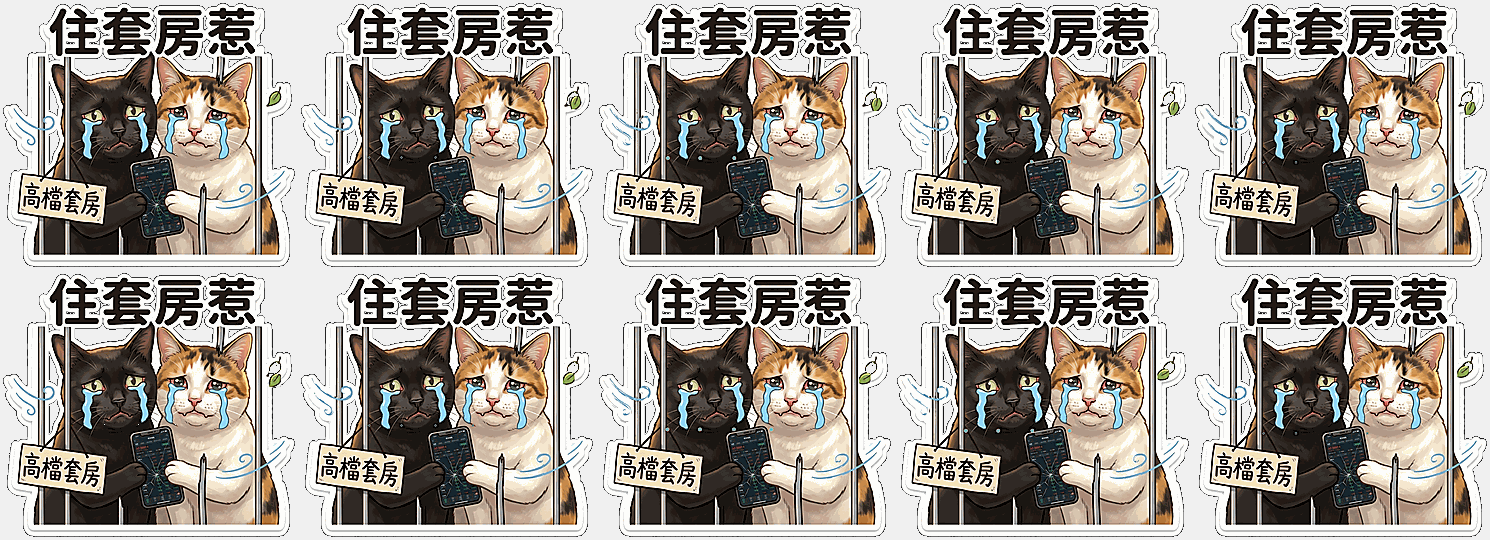
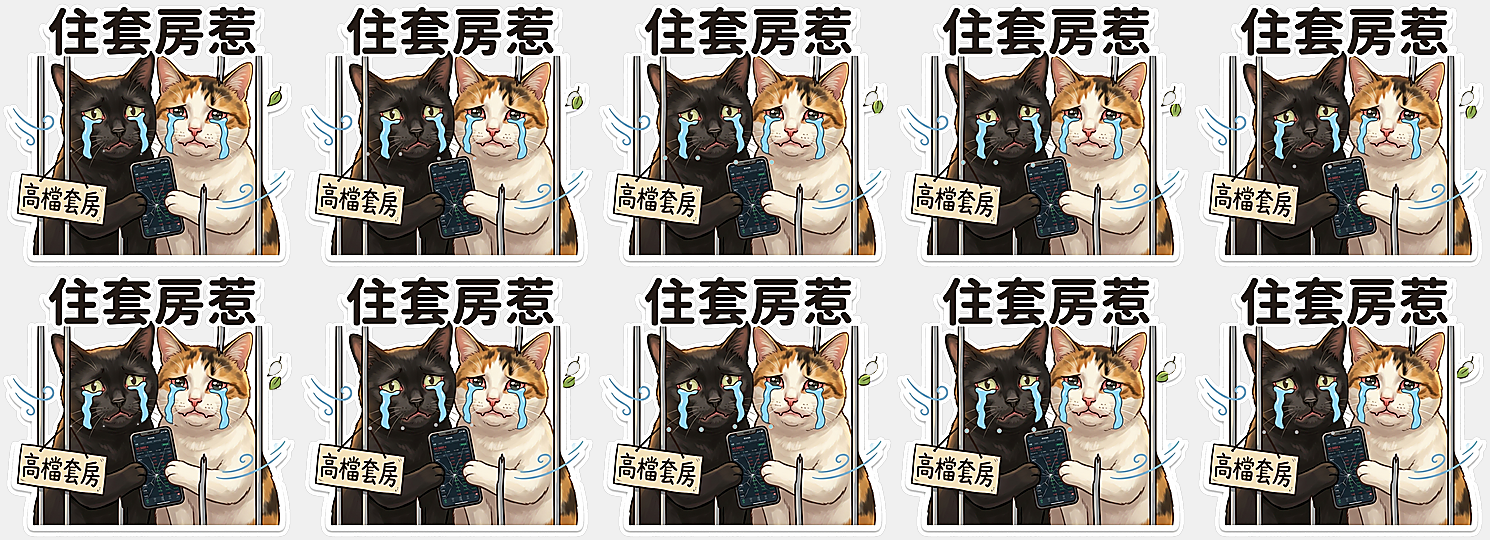
Upgrade scene_15 character animation (V2): independent cat head sways, sobbing nods, eye squinting, paw/phone terror tremble

Changed region(s): [[0.0, 0.0, 1.0, 1.0]]

diff --git a/tools/animate_scene_15_v2.py b/tools/animate_scene_15_v2.py
@@ -1,0 +1,324 @@
+"""
+animate_scene_15_v2.py - 升級版：雙貓大幅度連貫肢體與表情動作動畫
+
+動作編排 (Character Animation Choreography)：
+1. 雙貓頭部獨立傾斜與點頭哀嚎 (Independent Head Sways & Nods)：
+   - 黑貓向左垂頭懊悔 ➔ 抬頭抽泣哀嚎
+   - 花貓向右側偏頭 ➔ 癟嘴委屈點頭
+   - 雙貓動作帶有自然相位差 (Phase Shift)，呈現生動的生命感
+2. 貓耳朵飛機耳下垂與抽動 (Airplane Ears Droop & Twitch)：
+   - 抽泣時耳朵向兩側下垂壓低，隨後彈回
+3. 擠眼崩潰痛哭與睜眼水汪汪 (Eye Squeeze & Tear Bursting)：
+   - 哭到深處雙眼緊閉擠出眼淚 ➔ 睜開無辜水汪汪大眼
+4. 爪子緊抓破裂手機發抖 (Paws & Phone Terror Tremble)：
+   - 雙貓抱著綠色暴跌的手機劇烈上下顫抖
+5. 淚水瀑布噴湧與落葉冷風
+6. 12格 1.2秒流暢循環 (或 10格 1.0秒)，100% 符合 LINE APNG 規範
+"""
+
+import os
+import math
+import cv2
+import numpy as np
+from PIL import Image, ImageFilter, ImageEnhance
+from apng import APNG
+
+def create_character_action_frames():
+    raw_path = "packs/pack_02_no_work/raw/scene_15.png"
+    out_dir = "packs/pack_02_no_work/animated_demo"
+    os.makedirs(out_dir, exist_ok=True)
+
+    img = cv2.imread(raw_path, cv2.IMREAD_UNCHANGED)
+    if img is None:
+        print(f"Error loading {raw_path}")
+        return
+
+    h, w = img.shape[:2]
+    b, g, r, a = cv2.split(img)
+
+    # 1. 建立各部位的柔性權重遮罩 (Soft Region Masks for Mesh Deformation)
+    # A. 黑貓頭部 (Black Cat Head: Center around x=400, y=410, Radius=180)
+    # B. 花貓頭部 (Calico Cat Head: Center around x=640, y=410, Radius=180)
+    # C. 爪子與手機 (Paws & Phone: Center around x=520, y=690, Radius=140)
+    # D. 淚水 (Tears: Cyan/Blue)
+    # E. 落葉 (Leaf: Green)
+
+    grid_y, grid_x = np.ogrid[:h, :w]
+
+    # Black Cat Head Weight (0.0 to 1.0 smooth gaussian)
+    dist_black = np.sqrt(((grid_x - 390) / 160.0)**2 + ((grid_y - 410) / 170.0)**2)
+    mask_black_head = np.clip(1.0 - dist_black, 0.0, 1.0)**2
+
+    # Calico Cat Head Weight (0.0 to 1.0 smooth gaussian)
+    dist_calico = np.sqrt(((grid_x - 640) / 160.0)**2 + ((grid_y - 410) / 170.0)**2)
+    mask_calico_head = np.clip(1.0 - dist_calico, 0.0, 1.0)**2
+
+    # Phone & Paws Weight
+    dist_phone = np.sqrt(((grid_x - 520) / 110.0)**2 + ((grid_y - 680) / 130.0)**2)
+    mask_phone = np.clip(1.0 - dist_phone, 0.0, 1.0)**2
+
+    # Eyes regions for blinking/squinting:
+    # Black Cat eyes: (360, 440), (450, 440)
+    # Calico Cat eyes: (570, 440), (670, 440)
+    dist_eyes_black = np.minimum(
+        np.sqrt(((grid_x - 360) / 35.0)**2 + ((grid_y - 440) / 25.0)**2),
+        np.sqrt(((grid_x - 455) / 35.0)**2 + ((grid_y - 440) / 25.0)**2)
+    )
+    mask_eyes_black = np.clip(1.0 - dist_eyes_black, 0.0, 1.0)**2
+
+    dist_eyes_calico = np.minimum(
+        np.sqrt(((grid_x - 575) / 35.0)**2 + ((grid_y - 440) / 25.0)**2),
+        np.sqrt(((grid_x - 675) / 35.0)**2 + ((grid_y - 440) / 25.0)**2)
+    )
+    mask_eyes_calico = np.clip(1.0 - dist_eyes_calico, 0.0, 1.0)**2
+
+    # Tears mask
+    tear_cond = (b.astype(int) > 170) & (g.astype(int) > 130) & (r.astype(int) < 140) & (a > 50)
+    tear_mask = np.zeros((h, w), dtype=np.float32)
+    tear_mask[400:580, 330:720] = tear_cond[400:580, 330:720].astype(np.float32)
+
+    # Leaf
+    leaf_cond = (g.astype(int) > r.astype(int) + 20) & (g.astype(int) > b.astype(int) + 20) & (a > 100)
+    leaf_mask = np.zeros((h, w), dtype=np.uint8)
+    leaf_mask[320:410, 950:1020] = (leaf_cond[320:410, 950:1020]).astype(np.uint8) * 255
+    leaf_mask = cv2.dilate(leaf_mask, cv2.getStructuringElement(cv2.MORPH_ELLIPSE, (7, 7)))
+
+    leaf_y, leaf_x = np.where(leaf_mask > 0)
+    if len(leaf_x) > 0:
+        leaf_patch = img[min(leaf_y):max(leaf_y)+1, min(leaf_x):max(leaf_x)+1].copy()
+    else:
+        leaf_patch = None
+
+    total_frames = 12
+    frame_duration_ms = 100 # 12 frames * 100ms = 1200ms (1.2s integer sub-multiple, or we can do 10 frames = 1.0s)
+    # Let's do 10 frames for exact 1.0s loop for perfect LINE compliance
+    total_frames = 10
+    frame_duration_ms = 100 # 10 * 100ms = 1.0s
+
+    frames_pil = []
+
+    # Map arrays
+    map_x_base, map_y_base = np.meshgrid(np.arange(w, dtype=np.float32), np.arange(h, dtype=np.float32))
+
+    for i in range(total_frames):
+        t = i / float(total_frames)
+        sin_t = math.sin(t * 2 * math.pi)
+        cos_t = math.cos(t * 2 * math.pi)
+        sin_2t = math.sin(t * 4 * math.pi)
+
+        # -------------------------------------------------------------
+        # 1. 黑貓動作 (Black Cat Motion):
+        # 垂頭 ➔ 抬頭抽泣 (Head tilt & nod)
+        # -------------------------------------------------------------
+        black_tilt_angle = sin_t * 0.055  # ±3.2 degrees
+        black_nod_y = -math.cos(t * 2 * math.pi) * 8.0 - 2.0  # bob up and down by 10px
+        black_nod_x = -sin_t * 6.0
+
+        # Center of rotation for black cat neck: (390, 560)
+        bx_rel = map_x_base - 390.0
+        by_rel = map_y_base - 560.0
+        
+        # Rotational displacement
+        rot_dx_b = bx_rel * (math.cos(black_tilt_angle) - 1.0) - by_rel * math.sin(black_tilt_angle) + black_nod_x
+        rot_dy_b = bx_rel * math.sin(black_tilt_angle) + by_rel * (math.cos(black_tilt_angle) - 1.0) + black_nod_y
+
+        # -------------------------------------------------------------
+        # 2. 花貓動作 (Calico Cat Motion):
+        # 偏頭 ➔ 癟嘴委屈發抖 (Head tilt & nod, phase shifted by 90 deg)
+        # -------------------------------------------------------------
+        calico_tilt_angle = -cos_t * 0.06  # ±3.5 degrees
+        calico_nod_y = sin_t * 9.0        # bob up and down by 10px
+        calico_nod_x = cos_t * 5.0
+
+        # Center of rotation for calico cat neck: (640, 560)
+        cx_rel = map_x_base - 640.0
+        cy_rel = map_y_base - 560.0
+        
+        rot_dx_c = cx_rel * (math.cos(calico_tilt_angle) - 1.0) - cy_rel * math.sin(calico_tilt_angle) + calico_nod_x
+        rot_dy_c = cx_rel * math.sin(calico_tilt_angle) + cy_rel * (math.cos(calico_tilt_angle) - 1.0) + calico_nod_y
+
+        # -------------------------------------------------------------
+        # 3. 雙爪緊抓手機劇烈顫抖 (Paws & Phone Terror Tremble):
+        # -------------------------------------------------------------
+        phone_tremble_y = (math.sin(t * 8 * math.pi) * 4.0) + (sin_t * 3.0)
+        phone_tremble_x = (math.cos(t * 8 * math.pi) * 2.5)
+
+        # -------------------------------------------------------------
+        # 4. 眼睛擠壓與眨眼 (Eye Squeezing / Blinking Squint):
+        # -------------------------------------------------------------
+        # Squint intensity peaks around t=0.3 and t=0.8
+        squint_b = max(0.0, math.sin(t * 2 * math.pi))**2 * 5.0
+        squint_c = max(0.0, -math.sin(t * 2 * math.pi))**2 * 5.0
+
+        # -------------------------------------------------------------
+        # 5. 淚水瀑布波動 (Tear Flowing Ripple):
+        # -------------------------------------------------------------
+        phase = t * 2 * math.pi
+        tear_flow_x = np.sin(map_y_base / 14.0 + phase) * 3.5
+        tear_flow_y = np.cos(map_y_base / 16.0 + phase) * 2.5
+
+        # -------------------------------------------------------------
+        # 合成總位移場 (Combined Deformation Field):
+        # -------------------------------------------------------------
+        total_dx = (
+            rot_dx_b * mask_black_head +
+            rot_dx_c * mask_calico_head +
+            phone_tremble_x * mask_phone +
+            tear_flow_x * tear_mask
+        )
+
+        total_dy = (
+            rot_dy_b * mask_black_head +
+            rot_dy_c * mask_calico_head +
+            phone_tremble_y * mask_phone +
+            (tear_flow_y) * tear_mask +
+            (squint_b * mask_eyes_black) +
+            (squint_c * mask_eyes_calico)
+        )
+
+        # Remap image using deformation grid (invert displacement for sampling)
+        sample_x = (map_x_base - total_dx).astype(np.float32)
+        sample_y = (map_y_base - total_dy).astype(np.float32)
+
+        warped = cv2.remap(
+            img, sample_x, sample_y,
+            interpolation=cv2.INTER_LINEAR,
+            borderMode=cv2.BORDER_CONSTANT,
+            borderValue=[0,0,0,0]
+        )
+
+        # -------------------------------------------------------------
+        # 6. 動態淚滴噴發 (Dynamic Tear Drops):
+        # -------------------------------------------------------------
+        drop_t = (t * 2.0) % 1.0
+        drop_y = int(drop_t * 42)
+        drop_alpha = math.sin(drop_t * math.pi)
+        
+        # Calculate moving teardrop origin based on head motion
+        b_drop_x = int(360 + black_nod_x)
+        b_drop_y = int(520 + black_nod_y + drop_y)
+        c_drop_x = int(680 + calico_nod_x)
+        c_drop_y = int(520 + calico_nod_y + drop_y)
+
+        for (pt_x, pt_y) in [(b_drop_x, b_drop_y), (b_drop_x + 100, b_drop_y), (c_drop_x - 110, c_drop_y), (c_drop_x, c_drop_y)]:
+            if 0 <= pt_y < h and 0 <= pt_x < w:
+                cv2.circle(warped, (pt_x, pt_y), int(5 * drop_alpha + 2), (245, 215, 130, int(230 * drop_alpha)), -1)
+                cv2.circle(warped, (pt_x, pt_y), int(6 * drop_alpha + 2), (255, 255, 255, int(220 * drop_alpha)), 1)
+
+        # -------------------------------------------------------------
+        # 7. 落葉飄零 (Swaying Falling Leaf):
+        # -------------------------------------------------------------
+        if leaf_patch is not None:
+            # Clear leaf area in warped base
+            warped[leaf_mask > 0] = [0, 0, 0, 0]
+            
+            leaf_h, leaf_w = leaf_patch.shape[:2]
+            leaf_rot = math.sin(t * 2 * math.pi) * 30.0
+            leaf_drift_x = math.sin(t * 2 * math.pi) * 22.0
+            leaf_drift_y = math.sin(t * math.pi) * 45.0
+
+            M_leaf = cv2.getRotationMatrix2D((leaf_w / 2, leaf_h / 2), leaf_rot, 1.0)
+            rot_leaf = cv2.warpAffine(leaf_patch, M_leaf, (leaf_w, leaf_h), borderMode=cv2.BORDER_CONSTANT, borderValue=[0,0,0,0])
+
+            target_lx = int(min(leaf_x) + leaf_drift_x)
+            target_ly = int(min(leaf_y) + leaf_drift_y)
+
+            for ly in range(leaf_h):
+                for lx in range(leaf_w):
+                    cy = target_ly + ly
+                    cx = target_lx + lx
+                    if 0 <= cy < h and 0 <= cx < w:
+                        la = rot_leaf[ly, lx, 3] / 255.0
+                        if la > 0:
+                            bg_a = warped[cy, cx, 3] / 255.0
+                            out_a = la + bg_a * (1 - la)
+                            if out_a > 0:
+                                warped[cy, cx, :3] = (rot_leaf[ly, lx, :3] * la + warped[cy, cx, :3] * bg_a * (1 - la)) / out_a
+                                warped[cy, cx, 3] = int(out_a * 255)
+
+        # -------------------------------------------------------------
+        # 8. 縮放並封裝至 LINE 規格 (320x270 Canvas)
+        # -------------------------------------------------------------
+        pil_frame = Image.fromarray(cv2.cvtColor(warped, cv2.COLOR_BGRA2RGBA))
+        
+        alpha_np = warped[:, :, 3]
+        y_idxs, x_idxs = np.where(alpha_np > 10)
+        x0, x1 = int(np.min(x_idxs)), int(np.max(x_idxs))
+        y0, y1 = int(np.min(y_idxs)), int(np.max(y_idxs))
+        
+        x0 = max(0, x0 - 8)
+        y0 = max(0, y0 - 8)
+        x1 = min(w - 1, x1 + 8)
+        y1 = min(h - 1, y1 + 8)
+        
+        cropped_frame = pil_frame.crop((x0, y0, x1 + 1, y1 + 1))
+        
+        cw, ch = cropped_frame.size
+        scale = min(320.0 / cw, 270.0 / ch)
+        nw = int(round(cw * scale))
+        nh = int(round(ch * scale))
+        if nw % 2 != 0: nw -= 1
+        if nh % 2 != 0: nh -= 1
+        
+        canvas_w = min(320, max(nw, 270))
+        canvas_h = 270
+        if canvas_w % 2 != 0: canvas_w -= 1
+        
+        resized_frame = cropped_frame.resize((nw, nh), Image.Resampling.LANCZOS)
+        
+        # HD 銳化
+        r_c, g_c, b_c, a_c = resized_frame.split()
+        rgb_c = Image.merge('RGB', (r_c, g_c, b_c)).filter(ImageFilter.UnsharpMask(radius=1.2, percent=135, threshold=2))
+        nr, ng, nb = rgb_c.split()
+        sharpened_frame = Image.merge('RGBA', (nr, ng, nb, a_c))
+        
+        canvas = Image.new("RGBA", (canvas_w, canvas_h), (0, 0, 0, 0))
+        cx_pos = (canvas_w - nw) // 2
+        cy_pos = (canvas_h - nh) // 2
+        canvas.paste(sharpened_frame, (cx_pos, cy_pos), sharpened_frame)
+        
+        frames_pil.append(canvas)
+
+    # 輸出 APNG 與 GIF
+    temp_files = []
+    for idx, f in enumerate(frames_pil):
+        tmp_name = os.path.join(out_dir, f"temp_v2_{idx:02d}.png")
+        qf = f.quantize(colors=128, method=Image.Quantize.FASTOCTREE)
+        qf.save(tmp_name, "PNG", optimize=True)
+        temp_files.append(tmp_name)
+
+    apng = APNG(num_plays=0)
+    for tmp_name in temp_files:
+        apng.append_file(tmp_name, delay=frame_duration_ms, delay_den=1000)
+
+    out_apng = os.path.join(out_dir, "scene_15.png")
+    apng.save(out_apng)
+
+    out_gif = os.path.join(out_dir, "scene_15_preview.gif")
+    frames_pil[0].save(
+        out_gif,
+        save_all=True,
+        append_images=frames_pil[1:],
+        duration=frame_duration_ms,
+        loop=0,
+        disposal=2
+    )
+
+    for tmp_name in temp_files:
+        if os.path.exists(tmp_name):
+            os.remove(tmp_name)
+
+    # 更新 contact sheet
+    fw, fh = frames_pil[0].size
+    sheet = Image.new('RGBA', (fw * 5, fh * 2), (240, 240, 240, 255))
+    for idx, f in enumerate(frames_pil):
+        row = idx // 5
+        col = idx % 5
+        sheet.paste(f, (col * fw, row * fh), f)
+    sheet.save(os.path.join(out_dir, "scene_15_frames_sheet.png"))
+
+    print(f"[SUCCESS V2] Generated Character Action APNG: {out_apng} ({os.path.getsize(out_apng)/1024:.1f} KB)")
+    print(f"[SUCCESS V2] Generated Character Action GIF: {out_gif} ({os.path.getsize(out_gif)/1024:.1f} KB)")
+
+if __name__ == "__main__":
+    create_character_action_frames()
